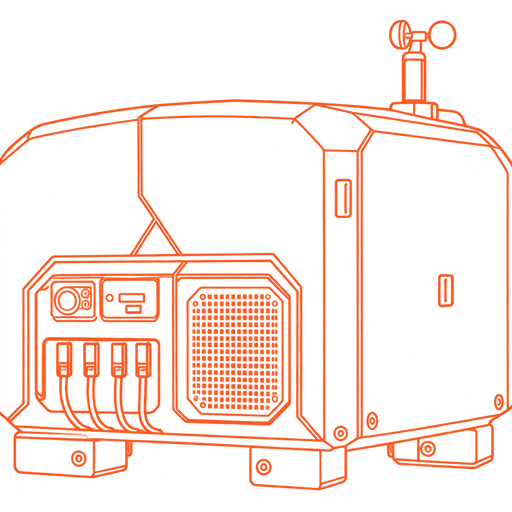
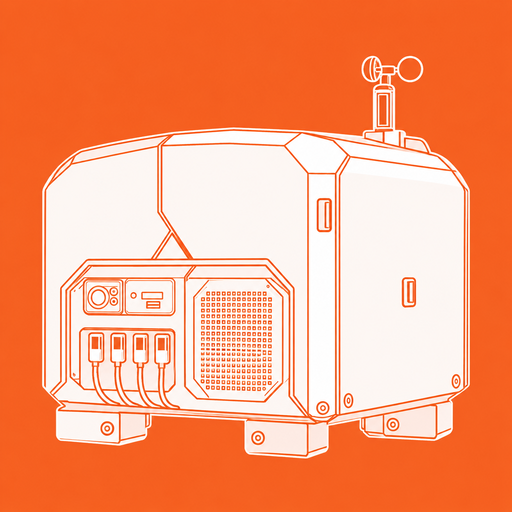
Replace portal branding with supplied device mark

diff --git a/rebuild-preview.html b/rebuild-preview.html
@@ -58,11 +58,11 @@ button:focus-visible,select:focus-visible,input:focus-visible,[role="button"]:fo
 .mis-button,.billing-clear,.inventory-tabs button,.crew-switch button{transition:transform var(--motion-fast) ease,border-color var(--motion-fast) ease,background var(--motion-fast) ease}.mis-button:hover,.billing-clear:hover,.inventory-tabs button:hover,.crew-switch button:hover{transform:translateY(-1px)}
 *{scrollbar-color:#41525c #101820;scrollbar-width:thin}
 @media(prefers-reduced-motion:reduce){.mis-button,.billing-clear,.inventory-tabs button,.crew-switch button{transition:none!important}}
-</style><style id="brand-mark-asset">.brand .mark{width:31px;height:31px;border:0;border-radius:0;transform:none;object-fit:contain;display:block;filter:drop-shadow(0 3px 5px #0007)}
+</style><style id="brand-mark-asset">.brand .mark{width:36px;height:36px;border:0;border-radius:8px;transform:none;object-fit:cover;display:block;filter:drop-shadow(0 3px 5px #0007)}
 </style></head>
 <body>
 <div class="app">
-<aside class="rail"><div class="brand"><img class="mark" src="assets/skystation-line-mark.png" alt="SkyStation Operations Intelligence"><div><strong>SkyStation</strong><small>Operations Intelligence</small></div></div><div class="nav-label">Workspace</div><nav class="nav" aria-label="Primary navigation"><button class="active" data-route="activity">Activity Tracking</button><button data-route="inventory">Inventory</button><button data-route="crew">Crew Management</button><button data-route="analytics">Analytics</button><button data-route="billing">Billing</button><button data-route="mis">MIS</button></nav><div class="rail-foot">SYNTHETIC REVIEW SURFACE<br><span>Authentication-free · no live records</span></div></aside>
+<aside class="rail"><div class="brand"><img class="mark" src="assets/skystation-operations-intelligence-icon.png" alt="SkyStation Operations Intelligence"><div><strong>SkyStation</strong><small>Operations Intelligence</small></div></div><div class="nav-label">Workspace</div><nav class="nav" aria-label="Primary navigation"><button class="active" data-route="activity">Activity Tracking</button><button data-route="inventory">Inventory</button><button data-route="crew">Crew Management</button><button data-route="analytics">Analytics</button><button data-route="billing">Billing</button><button data-route="mis">MIS</button></nav><div class="rail-foot">SYNTHETIC REVIEW SURFACE<br><span>Authentication-free · no live records</span></div></aside>
 <main class="main"><header class="topbar"><div class="crumb">Deep Dive / <b>Activity Tracking</b></div><div class="top-actions"><select class="scope" aria-label="Reporting period"><option>Today · 07 Sep 2026</option><option>This week · 31 Aug–06 Sep</option><option>This month · September 2026</option></select><div class="sync"><i class="dot"></i> Preview source · synthetic</div></div></header>
 <section class="content" id="activityView"><div class="headline"><div><div class="eyebrow">Daily execution review</div><h1>What needs attention today?</h1><p>Planned work, handoff state, and exceptions in one operating view.</p></div><div class="head-note">A selected record opens its evidence trail. Statuses are illustrative and clearly synthetic.</div></div>
 <div class="signal-grid"><div class="signal feature"><label>Operating read</label><strong>3 handoffs need review <em>↗ today</em></strong><small>Current activity register</small></div><div class="signal"><label>Planned today</label><strong>18</strong><small>07 Sep 2026 · today</small></div><div class="signal"><label>Completed</label><strong>11 <em>61%</em></strong><small>07 Sep 2026 · today</small></div><div class="signal"><label>Blocked / late</label><strong>4 <em>attention</em></strong><small>Current activity register</small></div></div>
